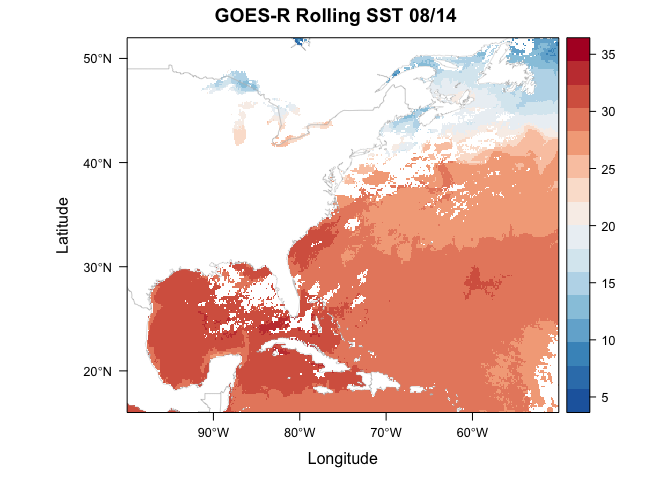
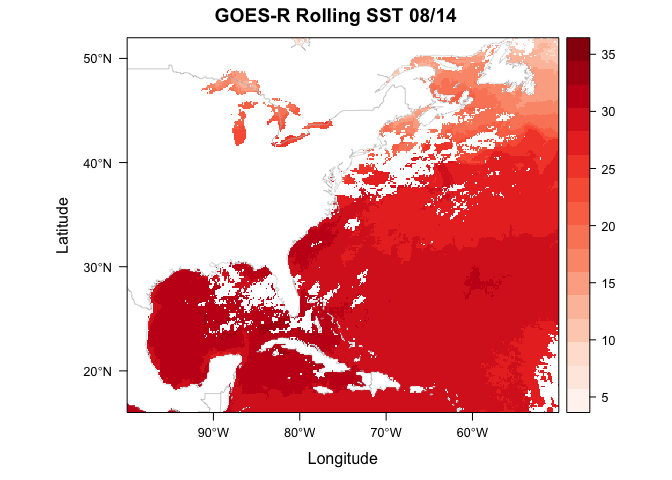
adding tif dataset

diff --git a/R/Week4_Oceanography.md b/R/Week4_Oceanography.md
@@ -41,7 +41,7 @@ action <-"flying"
 message(sprintf("On %s I realized %s was...\n%s by the street", Sys.Date(), person, action))
 ```
 
-    ## On 2019-09-17 I realized Grover was...
+    ## On 2019-09-18 I realized Grover was...
     ## flying by the street
 
 ``` r
@@ -277,7 +277,10 @@ world.shp <- readShapeLines("~/Downloads/world.shp",proj4string=CRS("+proj=longl
     ## Warning: use rgdal::readOGR or sf::st_read
 
 ``` r
-plt <- levelplot(sstRast, margin=F, par.settings=BuRdTheme,
+# add custom color theme using brewer.pal from the package RColorBrewer and setting the rasterTheme
+mapTheme <- rasterTheme(region=brewer.pal(8,"Reds"))
+
+plt <- levelplot(sstRast, margin=F, par.settings=mapTheme,
        main="GOES-R Rolling SST 08/14")
 plt + layer(sp.lines(world.shp, col='gray', lwd=0.4))
 ```
@@ -290,6 +293,6 @@ Assignment:
 
 2.  Open tree cover % as a variable, remove bad values.
 
-3.  Plot tree cover variable using the GrTheme (green theme). Be sure to add coastlines via your choice of underlying dataset. Ensure correct latitude/longitudes are displayed. Add title.
+3.  Plot tree cover variable using a green theme. Be sure to add coastlines via your choice of underlying dataset. Ensure correct latitude/longitudes are displayed. Add title.
 
 4.  Submit resulting image to Canvas assignment 4
